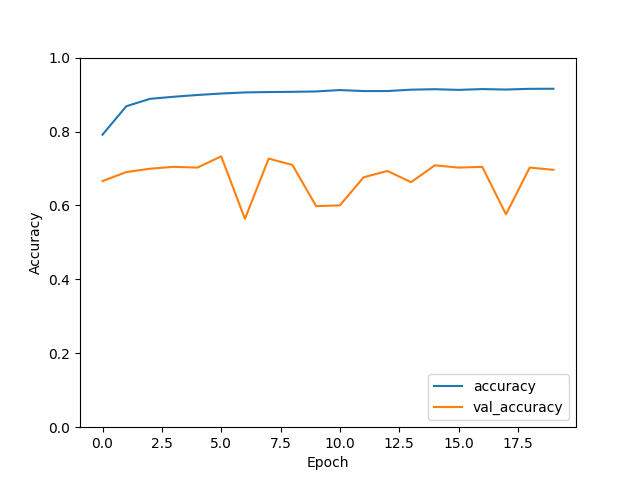
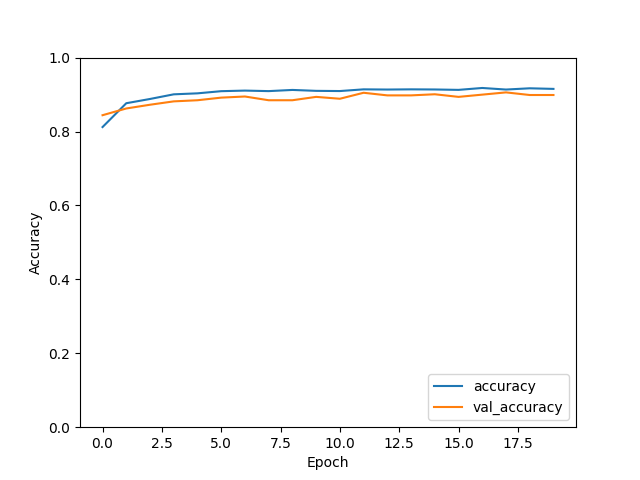
Updated to what was working best last

diff --git a/TD_Hospital_Model_Train.py b/TD_Hospital_Model_Train.py
@@ -97,15 +97,15 @@ def standardize(X):
     X[X.select_dtypes(include=['float64']).columns] = X_numeric
     X = scaler.fit_transform(X)
     dump(scaler, open('scaler.pkl', 'wb'))
-    return X, scaler
+    return X
 
 def train_model(X, y):
     # Split data into training and validation
     X_train, X_val, y_train, y_val = train_test_split(X, y, test_size=0.2, random_state=42)
     X_val, X_test, y_val, y_test = train_test_split(X_val, y_val, test_size=.3, random_state=42)
-    X_train, scaler = standardize(X_train)
-    X_val = scaler.transform(X_val)
-    X_test = scaler.transform(X_test)
+    #X_train, scaler = standardize(X_train)
+    #X_val = scaler.transform(X_val)
+    #X_test = scaler.transform(X_test)
     # Define the neural network model
     model = keras.Sequential([
         layers.Input(shape=(X_train.shape[1],)),  # Input layer
@@ -145,7 +145,7 @@ if __name__ == "__main__":
     df = pd.read_csv(data_path)
     cleaned_data = data_preprocessing(df)
     y, X = split_feature_label(cleaned_data)
-    #X = standardize(X)
-    #X = np.asarray(X).astype('float32')
+    X = standardize(X)
+    X = np.asarray(X).astype('float32')
     train_model(X, y)
     
